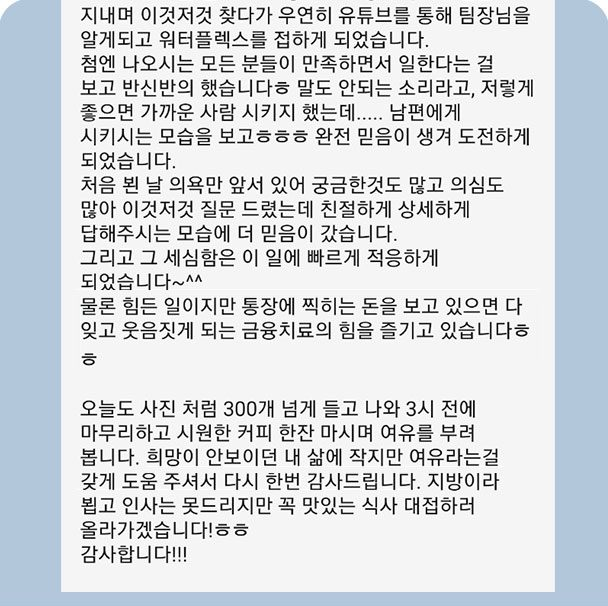
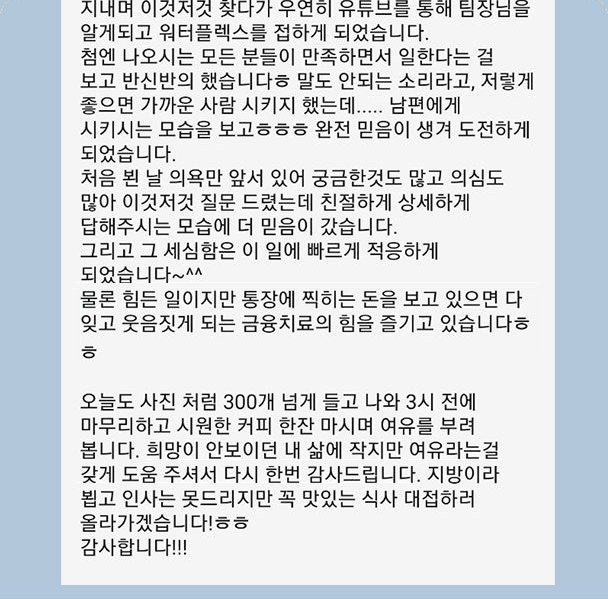
PC에서 가로 슬라이드 화살표·마우스 끌기 지원, 카톡 캡처 모서리 정리
- 카톡 원본 이미지 윗모서리에 남아 있던 흰 둥근 모서리를 배경색으로 채움
- 카톡 카드 모서리 R값 20px로 키움

Claude-Session: https://claude.ai/code/session_012jEaXjcJZhmzTuvegN8z3N

diff --git a/js/main.js b/js/main.js
@@ -258,3 +258,59 @@ function track(name) {
   modal.addEventListener('click', function (e) { if (e.target.hasAttribute('data-close')) close(); });
   document.addEventListener('keydown', function (e) { if (e.key === 'Escape' && !modal.hidden) close(); });
 })();
+
+/* ---------- 가로 슬라이드: PC에서 화살표 버튼 + 마우스로 끌어서 넘기기 ---------- */
+(function () {
+  'use strict';
+  document.querySelectorAll('.kroll').forEach(function (box) {
+    var wrap = document.createElement('div');
+    wrap.className = 'slider';
+    box.parentNode.insertBefore(wrap, box);
+    wrap.appendChild(box);
+
+    function step() {
+      var first = box.firstElementChild;
+      return first ? first.getBoundingClientRect().width + 12 : box.clientWidth * 0.8;
+    }
+    ['prev', 'next'].forEach(function (dir) {
+      var b = document.createElement('button');
+      b.type = 'button';
+      b.className = 'slider__btn slider__btn--' + dir;
+      b.setAttribute('aria-label', dir === 'prev' ? '이전 후기' : '다음 후기');
+      b.addEventListener('click', function () {
+        box.scrollBy({ left: (dir === 'prev' ? -1 : 1) * step(), behavior: 'smooth' });
+      });
+      wrap.appendChild(b);
+    });
+    function update() {
+      var max = box.scrollWidth - box.clientWidth - 2;
+      wrap.classList.toggle('is-start', box.scrollLeft <= 2);
+      wrap.classList.toggle('is-end', box.scrollLeft >= max);
+    }
+    box.addEventListener('scroll', function () { window.requestAnimationFrame(update); }, { passive: true });
+    window.addEventListener('resize', update);
+    update();
+
+    /* 마우스로 끌어서 넘기기 (터치는 기본 스크롤 사용) */
+    var down = false, startX = 0, startLeft = 0, moved = false;
+    box.addEventListener('pointerdown', function (e) {
+      if (e.pointerType !== 'mouse' || e.button !== 0) return;
+      down = true; moved = false; startX = e.clientX; startLeft = box.scrollLeft;
+      box.classList.add('is-drag');
+    });
+    window.addEventListener('pointermove', function (e) {
+      if (!down) return;
+      var dx = e.clientX - startX;
+      if (Math.abs(dx) > 4) moved = true;
+      box.scrollLeft = startLeft - dx;
+    });
+    window.addEventListener('pointerup', function () {
+      if (!down) return;
+      down = false; box.classList.remove('is-drag');
+      /* 가장 가까운 카드에 맞춰 멈춤 */
+      var s = step(); box.scrollTo({ left: Math.round(box.scrollLeft / s) * s, behavior: 'smooth' });
+    });
+    box.addEventListener('click', function (e) { if (moved) { e.preventDefault(); e.stopPropagation(); moved = false; } }, true);
+    box.addEventListener('dragstart', function (e) { e.preventDefault(); });
+  });
+})();

diff --git a/css/membership.css b/css/membership.css
@@ -172,3 +172,23 @@
 .kroll--scam .kshot img{aspect-ratio:4/3;object-fit:cover;object-position:top;max-height:none}
 .kroll--scam .kshot figcaption{flex:1;display:flex;align-items:center;justify-content:center;font-size:15px}
 .scam-rv .rvs__hint{margin-top:0}
+
+/* 가로 슬라이드 공통: 화살표(PC), 끌기 */
+.slider{position:relative}
+.slider__btn{display:none}
+.kroll.is-drag{scroll-snap-type:none;cursor:grabbing;user-select:none}
+@media (hover:hover) and (pointer:fine){
+  .kroll{cursor:grab}
+  .slider__btn{display:grid;place-items:center;position:absolute;top:50%;z-index:2;width:44px;height:44px;margin-top:-22px;border:1px solid var(--line);border-radius:50%;background:#fff;box-shadow:0 4px 14px rgba(16,36,58,.18);cursor:pointer;transition:opacity .2s}
+  .slider__btn::before{content:"";width:10px;height:10px;border:solid var(--navy);border-width:0 2.5px 2.5px 0}
+  .slider__btn--prev{left:-8px}
+  .slider__btn--prev::before{transform:translateX(2px) rotate(135deg)}
+  .slider__btn--next{right:-8px}
+  .slider__btn--next::before{transform:translateX(-2px) rotate(-45deg)}
+  .slider.is-start .slider__btn--prev,.slider.is-end .slider__btn--next{opacity:0;pointer-events:none}
+  .slider__btn:hover{background:var(--yellow)}
+  .rvs__hint{display:none}
+}
+
+/* 카톡 캡처 모서리 */
+.kshot{border-radius:20px}

diff --git a/index.html b/index.html
@@ -22,7 +22,7 @@
 <link rel="preconnect" href="https://cdn.jsdelivr.net" crossorigin>
 <link rel="stylesheet" href="https://cdn.jsdelivr.net/gh/orioncactus/pretendard@v1.3.9/dist/web/variable/pretendardvariable-dynamic-subset.min.css">
 <link rel="stylesheet" href="css/style.css?v=2">
-<link rel="stylesheet" href="css/membership.css?v=10">
+<link rel="stylesheet" href="css/membership.css?v=11">
 </head>
 <body>
 
@@ -454,6 +454,6 @@
 <a class="dock" id="dock" href="#apply">문의하기</a>
 
 <script src="js/regions.js?v=1"></script>
-<script src="js/main.js?v=5"></script>
+<script src="js/main.js?v=6"></script>
 </body>
 </html>
